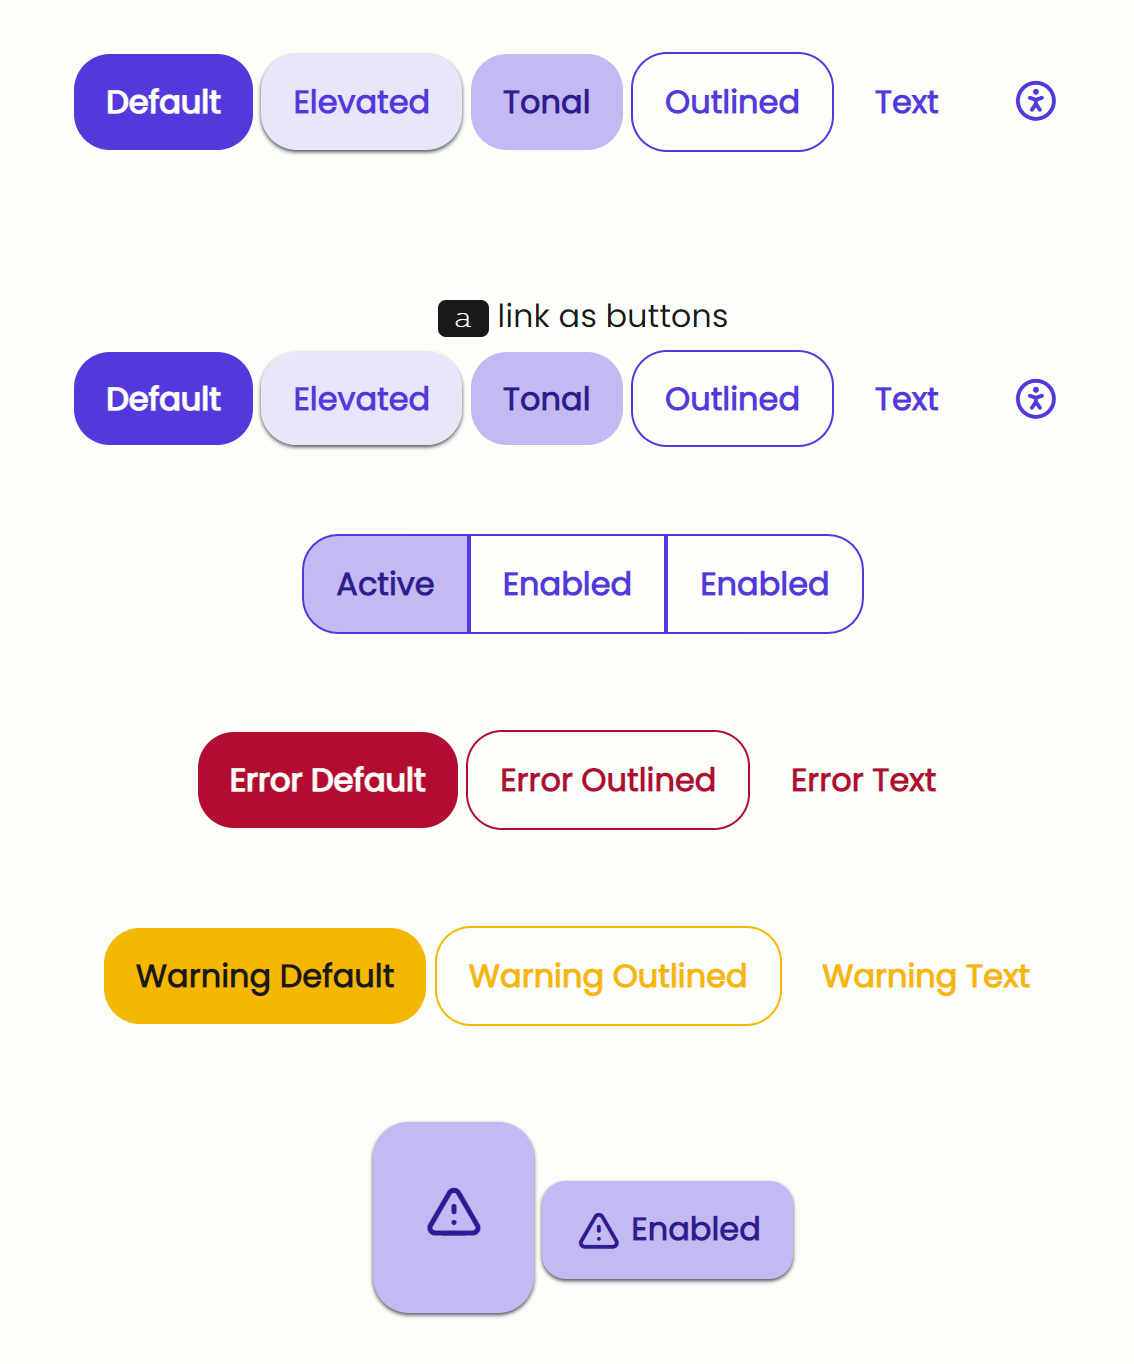
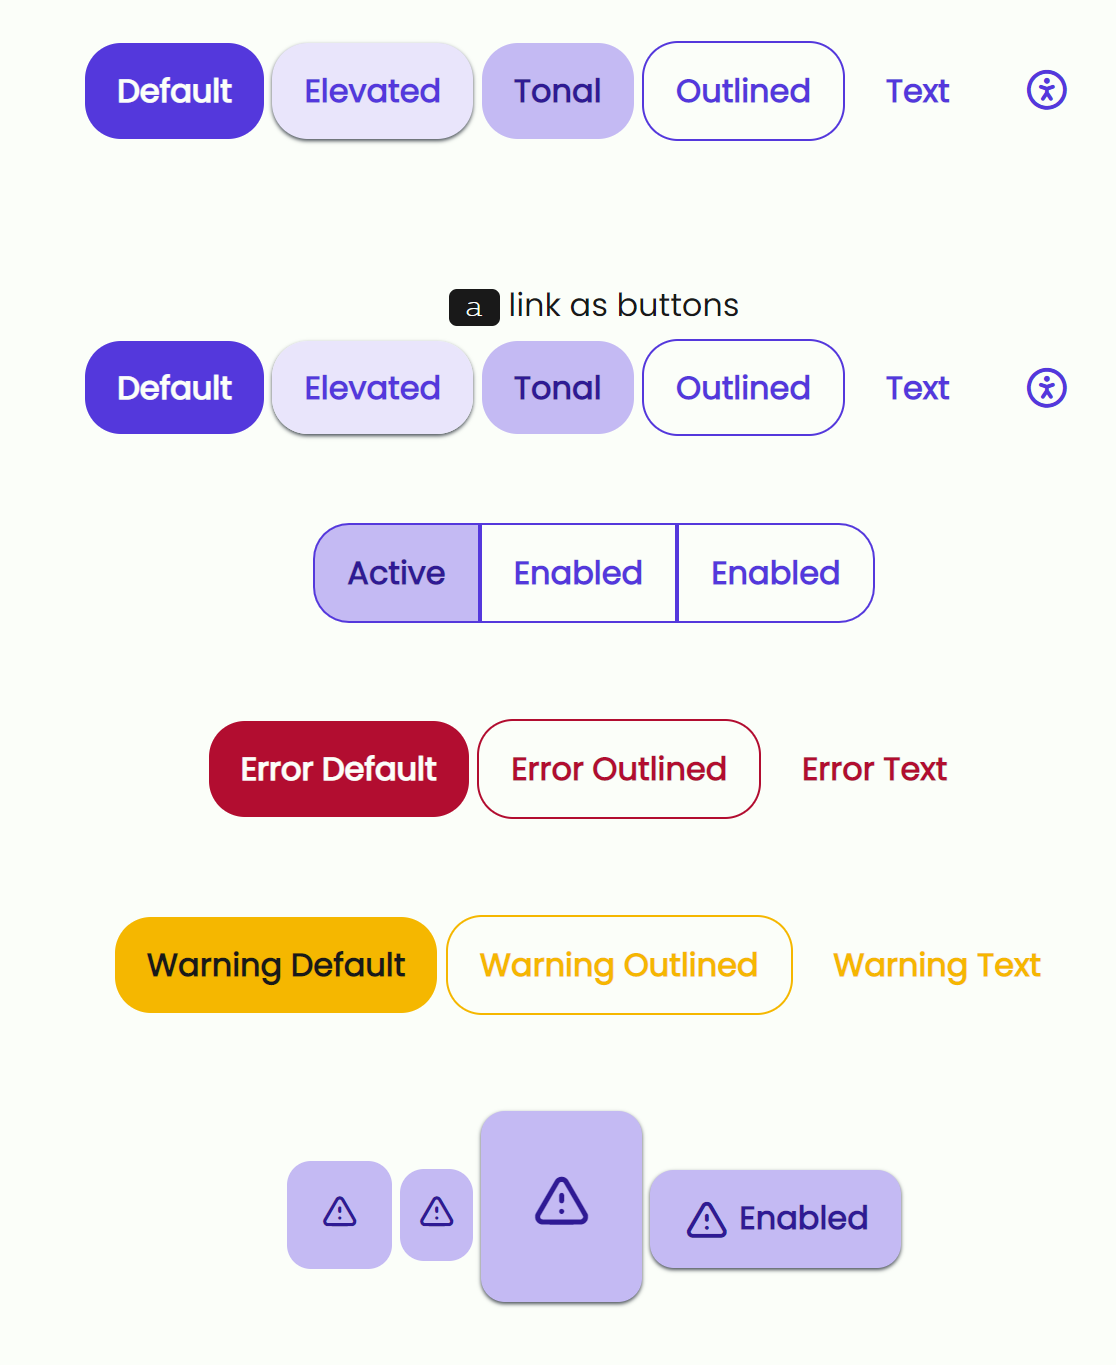
edit fab buttons

diff --git a/packages/rootscss/scss/components/_buttons.scss b/packages/rootscss/scss/components/_buttons.scss
@@ -52,8 +52,24 @@ button {
   }
 
   &.btn-fab {
+    font-size: 20px;
+    border-radius: $radius-lg;
+    background-color: lighten($primary, 30%);
+    color: darken($primary, 20%);
+  }
+
+  &.btn-fab-sm {
+    font-size: 20px;
+    padding: 0.5rem;
+    border-radius: $radius-lg;
+    background-color: lighten($primary, 30%);
+    color: darken($primary, 20%);
+  }
+
+  &.btn-fab-xl {
     padding: 1.5rem;
     font-size: 2rem;
+    border-radius: $radius-lg;
     box-shadow: 0px 1px 2px $dark-grey;
     background-color: lighten($primary, 30%);
     color: darken($primary, 20%);

diff --git a/packages/rootscss/dist/master.css b/packages/rootscss/dist/master.css
@@ -815,8 +815,22 @@ button {
   font-size: 24px;
 }
 .btn.btn-fab {
+  font-size: 20px;
+  border-radius: 12px;
+  background-color: #c4baf3;
+  color: #2f1a94;
+}
+.btn.btn-fab-sm {
+  font-size: 20px;
+  padding: 0.5rem;
+  border-radius: 12px;
+  background-color: #c4baf3;
+  color: #2f1a94;
+}
+.btn.btn-fab-xl {
   padding: 1.5rem;
   font-size: 2rem;
+  border-radius: 12px;
   box-shadow: 0px 1px 2px #495057;
   background-color: #c4baf3;
   color: #2f1a94;

diff --git a/packages/rootscss/docs/components/buttons.md b/packages/rootscss/docs/components/buttons.md
@@ -42,6 +42,12 @@
 
 <div class="container-md pb-5">
   <button class="btn btn-fab"><i class="ti ti-alert-triangle"></i></button>
+  <button class="btn btn-fab-sm">
+    <i class="ti ti-alert-triangle"></i>
+  </button>
+  <button class="btn btn-fab-xl">
+    <i class="ti ti-alert-triangle"></i>
+  </button>
   <button class="btn btn-fab-extended">
     <i class="ti ti-alert-triangle"></i> Enabled
   </button>
